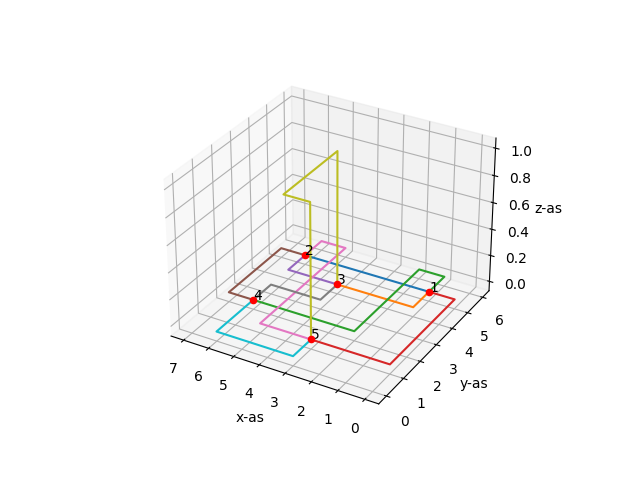
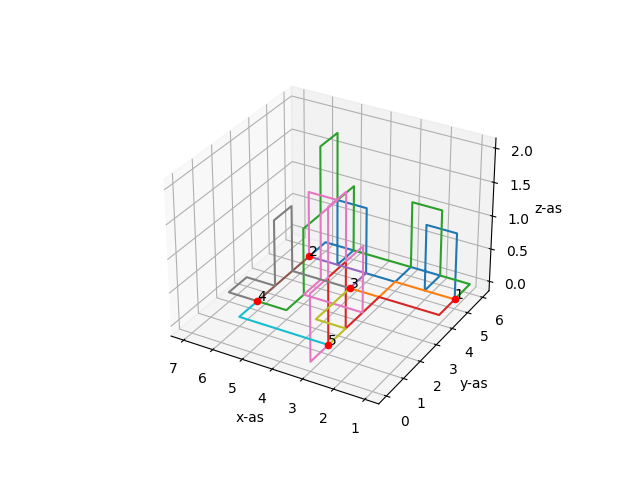
Commit before pull

diff --git a/main.py b/main.py
@@ -5,7 +5,7 @@ from code.algorithms import random, steered_random, astar, hillclimber as hc
 if __name__ == "__main__":
     
     chip_number = 0
-    netlist_number = 1
+    netlist_number = 3
 
     printfile = f"./data/chip_{chip_number}/print_{chip_number}.csv"
     netlistfile = f"./data/chip_{chip_number}/netlist_{netlist_number}.csv"
@@ -24,17 +24,16 @@ if __name__ == "__main__":
     # Testing A* algorithm
     # a = astar.Astar(grid)
 
-    # vis.visualise(printfile, outputfile, 'original')
+    vis.visualise(printfile, outputfile, 'original')
 
     # Testing hillclimber algorithm
-    # h = hc.HillClimber(a)
+    # h = hc.HillClimber(steered_random)
 
     # Optimizing solution on wire length
     # optimized_length = h.optimize_wire_length(chip_number, netlist_number)
 
     # Optimizing optimized length solution on costs
-    # optimization = hc.HillClimber(a).optimize_costs(500, chip_number, netlist_number)
-
+    # optimization = hc.HillClimber(steered_random).optimize_costs(500, chip_number, netlist_number)
 
     # vis.visualise(printfile, outputfile, 'optimalizations')
     # vis.visualise(printfile, outputfile)

diff --git a/code/algorithms/hillclimber.py b/code/algorithms/hillclimber.py
@@ -31,12 +31,12 @@ class HillClimber():
 
             net = new_grid.netlist[self.index]
 
-            print(f'Optimizing net {net}....')
+            # print(f'Optimizing net {net}....')
 
             self.length = net.get_length()
             self.old_total_length.append(self.length)
 
-            print(f'Original length: {self.length}')
+            # print(f'Original length: {self.length}')
 
             distance = net.get_route_to_end()
             distance = abs(distance[0]) + abs(distance[1]) + 1
@@ -54,8 +54,8 @@ class HillClimber():
                 
                 steps += 1
             
-            print(f'Found new length of {self.random_solution.grid.netlist[self.index].get_length()}')
-            print()
+            # print(f'Found new length of {self.random_solution.grid.netlist[self.index].get_length()}')
+            # print()
 
             self.new_total_length.append(self.length)
             

diff --git a/code/algorithms/steered_random.py b/code/algorithms/steered_random.py
@@ -12,7 +12,7 @@ class steered_random_routes:
     def __init__(self, grid):
         self.grid = deepcopy(grid)
         self.total_wires_length = 0
-        self.run(50)
+        self.costs = 0
 
     def select_shortest_nets(self, netlist):
         """
@@ -33,6 +33,7 @@ class steered_random_routes:
         """
         Takes the netlist of a grid as input
         Determines which nets are most on the sides of the grid
+        Preferes short nets above longer nets
         Returns an ordered list where the first nets are the most on the outside
         """
 
@@ -159,8 +160,6 @@ class steered_random_routes:
         for net in self.grid.netlist:
             if net.finished == False:
                 succesful = False
-
-        # return self.grid
 
         self.costs = 300 * self.grid.amount_of_intersections + self.total_wires_length
 

diff --git a/code/algorithms/random.py b/code/algorithms/random.py
@@ -101,7 +101,7 @@ class Random():
 
         self.grid.get_output(self.costs)
 
-        # print(f'Total amount of costs for this ciruit: {total_costs}.')
+        # print(f'Total amount of costs for this ciruit: {self.costs}.')
 
         return self.costs
     
